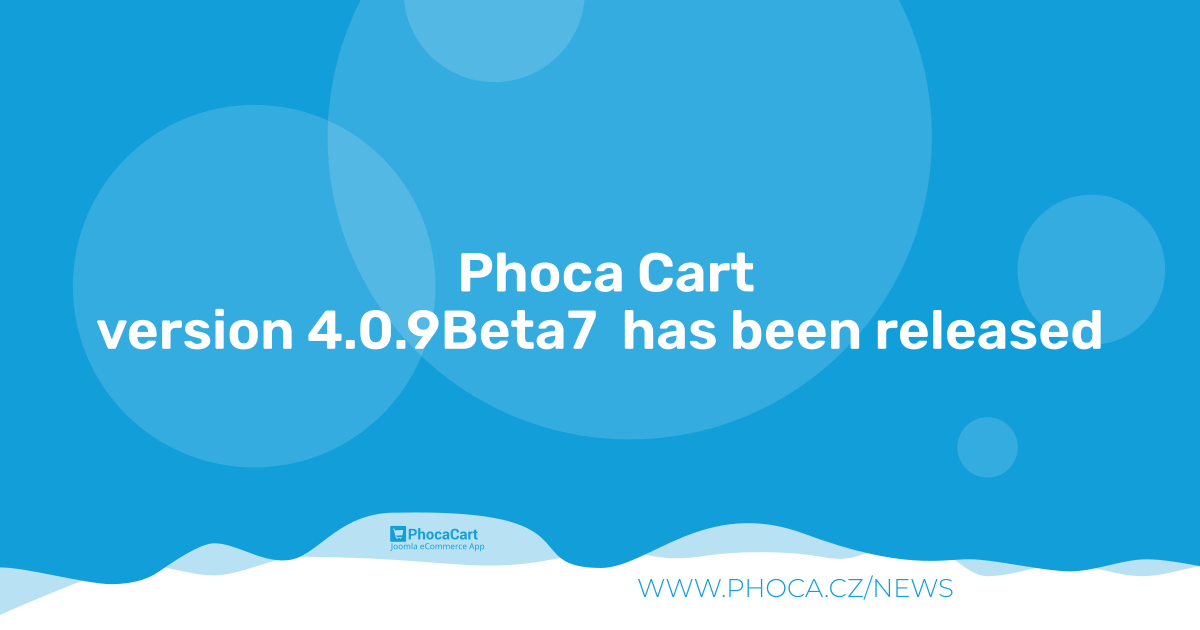
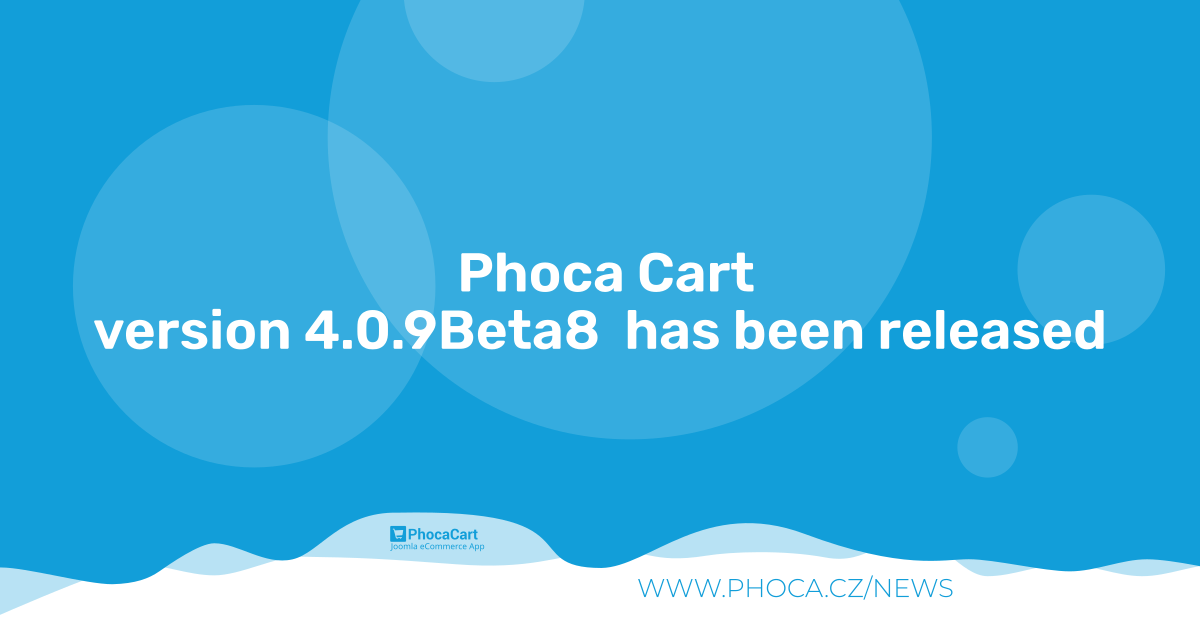
4.0.9Beta7

Changed region(s): [[0.0617, 0.4825, 0.925, 0.573]]

diff --git a/media/js/phoca/jquery.phocaattribute.min.js b/media/js/phoca/jquery.phocaattribute.min.js
@@ -1,1 +1,1 @@
-"use strict";function phChangeAttributeType(e){var t=(e=void 0!==e?".phj"+e:"")+".phjProductAttribute";jQuery(e+".phjCleanAttribute").remove(),jQuery(t).each(function(){var t,e,a="",i="",r="#phItemAttribute"+jQuery(this).data("attribute-id-name"),u="#phItemHiddenAttribute"+jQuery(this).data("attribute-id-name"),d="#phItemBoxAttribute"+jQuery(this).data("attribute-id-name"),s=jQuery(this).data("attribute-type"),h=jQuery(this).data("type-view"),n=jQuery(this).data("type-icon"),c=jQuery(this).data("required");3==s?a="phSelectBoxImage":2==s&&(a="phSelectBoxButton"),""!=a&&(i=u+" ."+a,t=jQuery(r).attr("name"),(e=jQuery('<input type="hidden" name="'+t+'">')).val(jQuery(r).val()),e.insertAfter(jQuery(r)),jQuery(u).css("display","block"),jQuery(d).css({display:"visible",position:"absolute",clip:"rect(0,0,0,0)"}),jQuery(d).addClass("phj"+h+" phjCleanAttribute"),jQuery(r+" option").each(function(){var e;""!=jQuery(this).val()&&(e="",3==s?e=jQuery('<div class="'+a+" "+n+'" data-value="'+jQuery(this).val()+'" data-value-alias="'+jQuery(this).data("value-alias")+'" title="'+jQuery(this).text()+'"><img src="'+jQuery(this).data("image")+'" alt="'+jQuery(this).text()+'" /></div>'):2==s&&(e=jQuery('<div class="'+a+" "+n+'" style="background-color:'+jQuery(this).data("color")+'" data-value="'+jQuery(this).val()+'" data-value-alias="'+jQuery(this).data("value-alias")+'" title="'+jQuery(this).text()+'">&nbsp;</div>')),jQuery(this).is(":selected")&&e.addClass("on"),jQuery(u).append(e))}),jQuery(i).on("click",function(e){if(e.preventDefault(),jQuery(this).hasClass("on")){if(1==c)return e.preventDefault(),!1;jQuery(this).removeClass("on"),jQuery('input[name="'+t+'"]').val(""),jQuery(r).val("").change()}else jQuery(i).removeClass("on"),jQuery(this).addClass("on"),jQuery('input[name="'+t+'"]').val(jQuery(this).data("value")),jQuery(r).val(jQuery(this).data("value")).change()}))})}function phAjaxChangeAttributeData(e,t,a,i){var r=Joomla.getOptions("phParamsPC"),u=Joomla.getOptions("phVarsPC").urlCheckoutChangeData,d=[];d.id=e,d.id_item_price="#phItemPriceBox"+t+e,d.id_item_price_gift="#phItemPriceGiftBox"+t+e,d.id_item_stock="#phItemStockBox"+t+e,d.id_item_id="#phItemIdBox"+t+e,d.id_item_name="V"+t+"P"+e,d.product_add_to_cart_item=".phProductAddToCart"+t+e,d.product_add_to_cart_item_icon=".phProductAddToCartIcon"+t+e,d.view=t,d.method_price=r.dynamicChangePrice,d.method_stock=r.dynamicChangeStock,d.method_id=r.dynamicChangeId,d.method_image=r.dynamicChangeImage,d.task="change",d.type="changedata",d.class="ItemQuick"==t||"Pos"==t||"Item"==t?"ph-item-data-box":"ph-category-data-box";i="id="+d.id+"&"+a+"&"+i+"&class="+d.class+"&typeview="+d.view;phDoRequestMethods(u,i,d)}function phSetAttributeUrl(u){var e=Joomla.getOptions("phParamsPC"),t=Joomla.getOptions("phVarsPC");if(1!=e.dynamicChangeUrlAttributes)return!1;if("item"!=t.view)return!1;var a=jQuery(location).attr("hash"),a=phReplaceAll("#","",a),d=phUrlDeParam(a),i=".phjProductAttribute",s="",h="",n="",t=jQuery(i).closest("form").find("input[name=return]"),a="";void 0!==t.val()&&""!=t.val()&&(a=Base64.decode(t.val())),jQuery(i).each(function(){""!=s&&(s+="&");var e=this.id,t=jQuery(this).data("alias"),a="",i="",r="#phItemHiddenAttribute"+jQuery(this).data("attribute-id-name");1==u?(void 0!==jQuery(this).find(":selected").data("value-alias")&&(a=jQuery(this).find(":selected").data("value-alias"),s=s+"a["+jQuery(this).data("alias")+"]="+a),void 0!==jQuery(this).find(":input:checked").data("value-alias")&&(jQuery.each(jQuery(this).find(":input:checked"),function(){""!=i&&(i+=","),i+=jQuery(this).data("value-alias")}),""!=i&&(s=s+"a["+jQuery(this).data("alias")+"]="+i))):(void 0!==d.a&&void 0!==t&&void 0!==d.a[t]?(s=s+"a["+jQuery(this).data("alias")+"]="+d.a[t],void 0===(t=d.a[t].split(","))&&0==t.length||(jQuery("#"+e+" option").removeAttr("selected"),jQuery(r+" div").removeClass("on"),jQuery("#"+e+" input").removeAttr("checked"),jQuery(t).each(function(){jQuery("#"+e+" option[data-value-alias='"+this+"']").attr("selected","selected"),jQuery(r+" div[data-value-alias='"+this+"']").addClass("on"),jQuery("#"+e+" input[data-value-alias='"+this+"']").attr("checked","checked")}))):(void 0!==jQuery(this).find(":selected").data("value-alias")&&(a=jQuery(this).find(":selected").data("value-alias"),s=s+"a["+jQuery(this).data("alias")+"]="+a),void 0!==jQuery(this).find(":input:checked").data("value-alias")&&(jQuery.each(jQuery(this).find(":input:checked"),function(){""!=i&&(i+=","),i+=jQuery(this).data("value-alias")}),""!=i&&(s=s+"a["+jQuery(this).data("alias")+"]="+i))),h=jQuery(this).data("type-view"),n=jQuery(this).data("product-id"))}),(0!=e.dynamicChangePrice||0!=e.dynamicChangeStock||0!=e.dynamicChangeId||0!=e.dynamicChangeImage&&1!=e.dynamicChangeImage)&&(i=".phjAddToCartV"+h+"P"+n,e=jQuery(i).find("select").serialize(),i=jQuery(i).find(":checkbox").serialize(),phAjaxChangeAttributeData(n,h,e,i)),s.lastIndexOf("&")==s.length-1&&(s=s.slice(0,-1)),(0==u&&""!=s||1==u)&&(s="#"+s,""!=a&&t.val(Base64.encode(a+s)),window.history.pushState({},"",s))}jQuery(document).ready(function(){phChangeAttributeType(),phSetAttributeUrl(0);jQuery(document).on("change","select.phjProductAttribute",function(e){var t=Joomla.getOptions("phParamsPC");if(0==t.dynamicChangePrice&&0==t.dynamicChangeStock&&0==t.dynamicChangeId&&(0==t.dynamicChangeImage||1==t.dynamicChangeImage))return!1;var a=jQuery(this).data("type-view"),i=jQuery(this).data("product-id"),t=".phjAddToCartV"+a+"P"+i;phAjaxChangeAttributeData(i,a,jQuery(t).find("select").serialize(),jQuery(t).find(":checkbox").serialize()),phSetAttributeUrl(1)});var e=".ph-checkbox-attribute.phjProductAttribute";jQuery(document).on("click",e,function(e){var t=Joomla.getOptions("phParamsPC");if("LABEL"!==e.target.tagName.toUpperCase()){if("svg"==t.theme||"svg"==t.iconType){if("SVG"===e.target.tagName.toUpperCase()||"IMG"===e.target.tagName.toUpperCase())return}else if(!("bs4"!=t.theme&&"bs5"!=t.theme||"SPAN"!==e.target.tagName.toUpperCase()&&"IMG"!==e.target.tagName.toUpperCase()))return;var a=jQuery(this).data("required"),t="#"+jQuery(this).attr("id")+" input:checked",t=jQuery(t).length;if(a&&0==t)return jQuery(e.target).parent().addClass("active"),e.preventDefault(),!1;e="#"+jQuery(this).attr("id")+" input[type='checkbox']",e=jQuery(e);0<e.length&&e.each(function(e){var t=jQuery(this).parent();jQuery(this).is(":checked")?t.addClass("active"):t.removeClass("active")})}}),jQuery(document).on("click",e,function(e){var t=Joomla.getOptions("phParamsPC");if((0!=t.dynamicChangePrice||0!=t.dynamicChangeStock||0!=t.dynamicChangeId||0!=t.dynamicChangeImage&&1!=t.dynamicChangeImage)&&"LABEL"!==e.target.tagName.toUpperCase()){if("svg"==t.theme||"svg"==t.iconType){if("SVG"===e.target.tagName.toUpperCase()||"IMG"===e.target.tagName.toUpperCase())return}else if(!("bs4"!=t.theme&&"bs5"!=t.theme||"SPAN"!==e.target.tagName.toUpperCase()&&"IMG"!==e.target.tagName.toUpperCase()))return;var a=jQuery(this).data("product-id"),t=jQuery(this).data("type-view"),e=".phjAddToCartV"+t+"P"+a;phAjaxChangeAttributeData(a,t,jQuery(e).find("select").serialize(),jQuery(e).find(":checkbox").serialize()),phSetAttributeUrl(1)}}),jQuery(".phAOGift").on("input",function(){var e,t="."+jQuery(this).data("type");".phAOGiftType"==t?(e=jQuery(this).data("title"),jQuery(".phAOGiftTitle").text(e),e=jQuery(this).data("image"),jQuery(".phAOGiftImage").attr("src",e),e=jQuery(this).data("date"),jQuery(".phAOGiftDate").text(e),""!=(e=jQuery(this).data("description"))&&(e=Base64.decode(e)),jQuery(".phAOGiftDescription").html(e),e=jQuery(this).data("class-name"),jQuery(t).attr("class","phAOGiftType ph-gift-voucher-box "+e)):jQuery(t).text(jQuery(this).val())})});
+"use strict";function phChangeAttributeType(e){var t=(e=void 0!==e?".phj"+e:"")+".phjProductAttribute";jQuery(e+".phjCleanAttribute").remove(),jQuery(t).each(function(){var t,e,a="",i="",r="#phItemAttribute"+jQuery(this).data("attribute-id-name"),u="#phItemHiddenAttribute"+jQuery(this).data("attribute-id-name"),d="#phItemBoxAttribute"+jQuery(this).data("attribute-id-name"),s=jQuery(this).data("attribute-type"),h=jQuery(this).data("type-view"),n=jQuery(this).data("type-icon"),c=jQuery(this).data("required");3==s?a="phSelectBoxImage":2==s&&(a="phSelectBoxButton"),""!=a&&(i=u+" ."+a,t=jQuery(r).attr("name"),(e=jQuery('<input type="hidden" name="'+t+'">')).val(jQuery(r).val()),e.insertAfter(jQuery(r)),jQuery(u).css("display","block"),jQuery(d).css({display:"visible",position:"absolute",clip:"rect(0,0,0,0)"}),jQuery(d).addClass("phj"+h+" phjCleanAttribute"),jQuery(r+" option").each(function(){var e;""!=jQuery(this).val()&&(e="",3==s?e=jQuery('<div class="'+a+" "+n+'" data-value="'+jQuery(this).val()+'" data-value-alias="'+jQuery(this).data("value-alias")+'" title="'+jQuery(this).text()+'"><img src="'+jQuery(this).data("image")+'" alt="'+jQuery(this).text()+'" /></div>'):2==s&&(e=jQuery('<div class="'+a+" "+n+" color-"+jQuery(this).data("color").replace("#","")+'" style="background-color:'+jQuery(this).data("color")+'" data-value="'+jQuery(this).val()+'" data-value-alias="'+jQuery(this).data("value-alias")+'" title="'+jQuery(this).text()+'">&nbsp;</div>')),jQuery(this).is(":selected")&&e.addClass("on"),jQuery(u).append(e))}),jQuery(i).on("click",function(e){if(e.preventDefault(),jQuery(this).hasClass("on")){if(1==c)return e.preventDefault(),!1;jQuery(this).removeClass("on"),jQuery('input[name="'+t+'"]').val(""),jQuery(r).val("").change()}else jQuery(i).removeClass("on"),jQuery(this).addClass("on"),jQuery('input[name="'+t+'"]').val(jQuery(this).data("value")),jQuery(r).val(jQuery(this).data("value")).change()}))})}function phAjaxChangeAttributeData(e,t,a,i){var r=Joomla.getOptions("phParamsPC"),u=Joomla.getOptions("phVarsPC").urlCheckoutChangeData,d=[];d.id=e,d.id_item_price="#phItemPriceBox"+t+e,d.id_item_price_gift="#phItemPriceGiftBox"+t+e,d.id_item_stock="#phItemStockBox"+t+e,d.id_item_id="#phItemIdBox"+t+e,d.id_item_name="V"+t+"P"+e,d.product_add_to_cart_item=".phProductAddToCart"+t+e,d.product_add_to_cart_item_icon=".phProductAddToCartIcon"+t+e,d.view=t,d.method_price=r.dynamicChangePrice,d.method_stock=r.dynamicChangeStock,d.method_id=r.dynamicChangeId,d.method_image=r.dynamicChangeImage,d.task="change",d.type="changedata",d.class="ItemQuick"==t||"Pos"==t||"Item"==t?"ph-item-data-box":"ph-category-data-box";i="id="+d.id+"&"+a+"&"+i+"&class="+d.class+"&typeview="+d.view;phDoRequestMethods(u,i,d)}function phSetAttributeUrl(u){var e=Joomla.getOptions("phParamsPC"),t=Joomla.getOptions("phVarsPC");if(1!=e.dynamicChangeUrlAttributes)return!1;if("item"!=t.view)return!1;var a=jQuery(location).attr("hash"),a=phReplaceAll("#","",a),d=phUrlDeParam(a),i=".phjProductAttribute",s="",h="",n="",t=jQuery(i).closest("form").find("input[name=return]"),a="";void 0!==t.val()&&""!=t.val()&&(a=Base64.decode(t.val())),jQuery(i).each(function(){""!=s&&(s+="&");var e=this.id,t=jQuery(this).data("alias"),a="",i="",r="#phItemHiddenAttribute"+jQuery(this).data("attribute-id-name");1==u?(void 0!==jQuery(this).find(":selected").data("value-alias")&&(a=jQuery(this).find(":selected").data("value-alias"),s=s+"a["+jQuery(this).data("alias")+"]="+a),void 0!==jQuery(this).find(":input:checked").data("value-alias")&&(jQuery.each(jQuery(this).find(":input:checked"),function(){""!=i&&(i+=","),i+=jQuery(this).data("value-alias")}),""!=i&&(s=s+"a["+jQuery(this).data("alias")+"]="+i))):(void 0!==d.a&&void 0!==t&&void 0!==d.a[t]?(s=s+"a["+jQuery(this).data("alias")+"]="+d.a[t],void 0===(t=d.a[t].split(","))&&0==t.length||(jQuery("#"+e+" option").removeAttr("selected"),jQuery(r+" div").removeClass("on"),jQuery("#"+e+" input").removeAttr("checked"),jQuery(t).each(function(){jQuery("#"+e+" option[data-value-alias='"+this+"']").attr("selected","selected"),jQuery(r+" div[data-value-alias='"+this+"']").addClass("on"),jQuery("#"+e+" input[data-value-alias='"+this+"']").attr("checked","checked")}))):(void 0!==jQuery(this).find(":selected").data("value-alias")&&(a=jQuery(this).find(":selected").data("value-alias"),s=s+"a["+jQuery(this).data("alias")+"]="+a),void 0!==jQuery(this).find(":input:checked").data("value-alias")&&(jQuery.each(jQuery(this).find(":input:checked"),function(){""!=i&&(i+=","),i+=jQuery(this).data("value-alias")}),""!=i&&(s=s+"a["+jQuery(this).data("alias")+"]="+i))),h=jQuery(this).data("type-view"),n=jQuery(this).data("product-id"))}),(0!=e.dynamicChangePrice||0!=e.dynamicChangeStock||0!=e.dynamicChangeId||0!=e.dynamicChangeImage&&1!=e.dynamicChangeImage)&&(i=".phjAddToCartV"+h+"P"+n,e=jQuery(i).find("select").serialize(),i=jQuery(i).find(":checkbox").serialize(),phAjaxChangeAttributeData(n,h,e,i)),s.lastIndexOf("&")==s.length-1&&(s=s.slice(0,-1)),(0==u&&""!=s||1==u)&&(s="#"+s,""!=a&&t.val(Base64.encode(a+s)),window.history.pushState({},"",s))}jQuery(document).ready(function(){phChangeAttributeType(),phSetAttributeUrl(0);jQuery(document).on("change","select.phjProductAttribute",function(e){var t=Joomla.getOptions("phParamsPC");if(0==t.dynamicChangePrice&&0==t.dynamicChangeStock&&0==t.dynamicChangeId&&(0==t.dynamicChangeImage||1==t.dynamicChangeImage))return!1;var a=jQuery(this).data("type-view"),i=jQuery(this).data("product-id"),t=".phjAddToCartV"+a+"P"+i;phAjaxChangeAttributeData(i,a,jQuery(t).find("select").serialize(),jQuery(t).find(":checkbox").serialize()),phSetAttributeUrl(1)});var e=".ph-checkbox-attribute.phjProductAttribute";jQuery(document).on("click",e,function(e){var t=Joomla.getOptions("phParamsPC");if("LABEL"!==e.target.tagName.toUpperCase()){if("svg"==t.theme||"svg"==t.iconType){if("SVG"===e.target.tagName.toUpperCase()||"IMG"===e.target.tagName.toUpperCase())return}else if(!("bs4"!=t.theme&&"bs5"!=t.theme||"SPAN"!==e.target.tagName.toUpperCase()&&"IMG"!==e.target.tagName.toUpperCase()))return;var a=jQuery(this).data("required"),t="#"+jQuery(this).attr("id")+" input:checked",t=jQuery(t).length;if(a&&0==t)return jQuery(e.target).parent().addClass("active"),e.preventDefault(),!1;e="#"+jQuery(this).attr("id")+" input[type='checkbox']",e=jQuery(e);0<e.length&&e.each(function(e){var t=jQuery(this).parent();jQuery(this).is(":checked")?t.addClass("active"):t.removeClass("active")})}}),jQuery(document).on("click",e,function(e){var t=Joomla.getOptions("phParamsPC");if((0!=t.dynamicChangePrice||0!=t.dynamicChangeStock||0!=t.dynamicChangeId||0!=t.dynamicChangeImage&&1!=t.dynamicChangeImage)&&"LABEL"!==e.target.tagName.toUpperCase()){if("svg"==t.theme||"svg"==t.iconType){if("SVG"===e.target.tagName.toUpperCase()||"IMG"===e.target.tagName.toUpperCase())return}else if(!("bs4"!=t.theme&&"bs5"!=t.theme||"SPAN"!==e.target.tagName.toUpperCase()&&"IMG"!==e.target.tagName.toUpperCase()))return;var a=jQuery(this).data("product-id"),t=jQuery(this).data("type-view"),e=".phjAddToCartV"+t+"P"+a;phAjaxChangeAttributeData(a,t,jQuery(e).find("select").serialize(),jQuery(e).find(":checkbox").serialize()),phSetAttributeUrl(1)}}),jQuery(".phAOGift").on("input",function(){var e,t="."+jQuery(this).data("type");".phAOGiftType"==t?(e=jQuery(this).data("title"),jQuery(".phAOGiftTitle").text(e),e=jQuery(this).data("image"),jQuery(".phAOGiftImage").attr("src",e),e=jQuery(this).data("date"),jQuery(".phAOGiftDate").text(e),""!=(e=jQuery(this).data("description"))&&(e=Base64.decode(e)),jQuery(".phAOGiftDescription").html(e),e=jQuery(this).data("class-name"),jQuery(t).attr("class","phAOGiftType ph-gift-voucher-box "+e)):jQuery(t).text(jQuery(this).val())})});

diff --git a/media/js/phoca/jquery.phocaattribute.js b/media/js/phoca/jquery.phocaattribute.js
@@ -69,11 +69,11 @@ function phChangeAttributeType(typeView) {
 						phSBtn = jQuery('<div class="'+ phClass	+' '+ phTypeIcon +'" data-value="'+ jQuery(this).val() +'" data-value-alias="'+ jQuery(this).data('value-alias') +'" title="'+ jQuery(this).text() +'"><img src="'+ jQuery(this).data('image') +'" alt="'+ jQuery(this).text() +'" /></div>');
 					} else if (phType == 2) {
 						// Color
-						phSBtn = jQuery('<div class="'+ phClass +' '+ phTypeIcon +'" style="background-color:' + jQuery(this).data('color') +'" data-value="'+ jQuery(this).val() +'" data-value-alias="'+ jQuery(this).data('value-alias') +'" title="'+ jQuery(this).text() +'">'+ '&nbsp;' +'</div>');
-						
+						phSBtn = jQuery('<div class="'+ phClass +' '+ phTypeIcon + ' color-' + jQuery(this).data('color').replace('#', '')  +'" style="background-color:' + jQuery(this).data('color') +'" data-value="'+ jQuery(this).val() +'" data-value-alias="'+ jQuery(this).data('value-alias') +'" title="'+ jQuery(this).text() +'">'+ '&nbsp;' +'</div>');
+
 					}
 
-					
+
 					if(jQuery(this).is(':selected')) {
 						phSBtn.addClass('on');
 					}
@@ -86,7 +86,7 @@ function phChangeAttributeType(typeView) {
 
 
 			// Change on Click event
-			
+
 			jQuery(phClassId).on('click', function(e) {
 
 				e.preventDefault();// Bootstrap modal (close and open again duplicates events)
@@ -94,7 +94,7 @@ function phChangeAttributeType(typeView) {
 				let isActive = jQuery(this).hasClass('on');
 
 				if (isActive) {
-					
+
 					if (phRequired == 1) {
 						e.preventDefault();// Active item cannot be unselected when the select box is required
 						return false;
@@ -187,7 +187,7 @@ function phSetAttributeUrl(phSetValueByUser) {
 		let valueAlias 		= '';// One value for selectbox
 		let valuesAlias 	= '';// One or more values for checkbox
 		let phSelectNameIdT	= '#phItemHiddenAttribute' + jQuery(this).data('attribute-id-name');
-		
+
 		if (phSetValueByUser == 1) {
 			// 1) Set by user
 
@@ -286,7 +286,7 @@ function phSetAttributeUrl(phSetValueByUser) {
 	// Update URL after #
 	if (phSetValueByUser == 0 && phHashNew != '') {
 		phHashNew = '#' + phHashNew;
-		
+
 		// Update even form return value to be returned back with selected attribute
 		if(attributeFormReturnValue != '') {
 			attributeFormReturn.val(Base64.encode(attributeFormReturnValue + phHashNew));
@@ -294,7 +294,7 @@ function phSetAttributeUrl(phSetValueByUser) {
 		window.history.pushState({},"", phHashNew);
 	} else if (phSetValueByUser == 1) {
 		phHashNew = '#' + phHashNew;
-		
+
 		// Update even form return value to be returned back with selected attribute
 		if(attributeFormReturnValue != '') {
 			attributeFormReturn.val(Base64.encode(attributeFormReturnValue + phHashNew));
@@ -340,11 +340,11 @@ jQuery(document).ready(function() {
 	jQuery(document).on('click', phCheckboxA, function(e){
 
 		const phParams = Joomla.getOptions('phParamsPC');
-		
+
 
 
 		if (e.target.tagName.toUpperCase() === "LABEL") { return;}// Prevent from twice running
-        
+
 		if (phParams['theme'] == 'svg' || phParams['iconType'] == 'svg') {
 			if (e.target.tagName.toUpperCase() === "SVG" || e.target.tagName.toUpperCase() === "IMG") {  return;}// Prevent from twice running
 		} else if (phParams['theme'] == 'bs4' || phParams['theme'] == 'bs5') {
@@ -355,14 +355,14 @@ jQuery(document).ready(function() {
 		 let phRequired = jQuery(this).data("required");
 		 let phCheckboxAInputChecked =  "#" + jQuery(this).attr("id") + " input:checked";
 		 let phACheckedLength = jQuery(phCheckboxAInputChecked).length;
-		 
+
 		 if (phRequired && phACheckedLength == 0) {
 			 let phThisLabel = jQuery(e.target).parent();//  checkboxes - colors, images
 			 phThisLabel.addClass("active");//  checkboxes - colors, images
 			 e.preventDefault();
 			 return false;
 		}
-		
+
 		let phCheckboxAInput =  "#" + jQuery(this).attr("id") + " input[type='checkbox']";
 		let allInputs = jQuery(phCheckboxAInput);
 
@@ -383,13 +383,13 @@ jQuery(document).ready(function() {
 	jQuery(document).on('click', phCheckboxA, function(e){
 
 		const phParams = Joomla.getOptions('phParamsPC');
-		
-		if (phParams['dynamicChangePrice'] == 0 && phParams['dynamicChangeStock'] == 0 && phParams['dynamicChangeId'] == 0 && (phParams['dynamicChangeImage'] == 0 || phParams['dynamicChangeImage'] == 1)) {	
+
+		if (phParams['dynamicChangePrice'] == 0 && phParams['dynamicChangeStock'] == 0 && phParams['dynamicChangeId'] == 0 && (phParams['dynamicChangeImage'] == 0 || phParams['dynamicChangeImage'] == 1)) {
 			return;// Interactive Change is disabled
 		}
 
 		if (e.target.tagName.toUpperCase() === "LABEL") { return;}// Prevent from twice running
-        
+
 		if (phParams['theme'] == 'svg' || phParams['iconType'] == 'svg') {
 			if (e.target.tagName.toUpperCase() === "SVG" || e.target.tagName.toUpperCase() === "IMG") {  return;}// Prevent from twice running
 		} else if (phParams['theme'] == 'bs4' || phParams['theme'] == 'bs5') {
@@ -413,14 +413,14 @@ jQuery(document).ready(function() {
 
 
 		if (phAOType == '.phAOGiftType') {
-			
+
 			let title = jQuery(this).data('title');
 			jQuery('.phAOGiftTitle').text(title);
 			let image = jQuery(this).data('image');
 			jQuery('.phAOGiftImage').attr('src', image);
 			let date = jQuery(this).data('date');
 			jQuery('.phAOGiftDate').text(date);
-			
+
 			let description = jQuery(this).data('description');
 			if (description != '') {
 				description = Base64.decode(description);

diff --git a/media/css/spec/yootheme.css b/media/css/spec/yootheme.css
@@ -21,18 +21,11 @@
     display: none;
 }
 
-
 /* Top modules */
 .ph-cart-module-box .uk-dropdown {
     min-width: 26em;
 }
 
-.ph-item-module-box ul li a,
-.ph-item-module-box ul li a:hover,
-.ph-item-module-box div a,
-.ph-item-module-box div a:hover {
-    color: #000;
-}
 .ph-item-module-box .row {
     margin: 0;
     padding: 0;
@@ -42,7 +35,6 @@
     margin: 0;
     padding: 0;
 }
-
 
 .ph-pagination-top .uk-select,
 .ph-pagination .uk-select {
@@ -97,10 +89,8 @@ span.visually-hidden {
     border: 1px solid #f0f0f0;
 }
 
-
-
-
 /* Additional Buttons*/
+/*
 .uk-modal .uk-button-success,
 .tm-page .uk-button-success {
     background: #acacac;
@@ -139,8 +129,7 @@ span.visually-hidden {
     color: #138496;
     border: 1px solid #138496;
 }
-
-
+*/
 
 span.ph-stars, span.ph-stars span {
     background: url(../../images/star-small-yellow.svg) 0 -16px repeat-x;
@@ -161,46 +150,33 @@ span.ph-stars span {
     padding-bottom: 0;
 }
 
-
-.ph-corner-icon-featured {
-    background-color: #E6B863;
-}
-.ph-corner-icon-bio {
-    background-color: #407060;
-}
-.ph-corner-icon-no-sugar {
-    background-color: #5c1d27;
-}
-
+/*
 .uk-logo>:where(img,svg,video) {
     display: block;
     margin-top: -6.5em;
     height: 2.5em;
 
 }
+*/
 
 .uk-navbar-left {
     border-right: 0 !important;
 }
 
-#tm-main {
-    /*padding-top: 0;*/
-}
-
+/*
 #phPriceFilterRange .ui-widget-header {
     background: #acacac;
 }
 
 #phPriceFilterRange.ui-slider-horizontal .ui-slider-handle {
-
     background: #acacac;
-
 }
-
+*/
+/*
 img {
     filter: grayscale(15%);
-  }
-
+}
+*/
 
 .ph-filter-box-horizontal .uk-dropdown-box .uk-form-group.row {
     margin-bottom: 0.5em !important;

diff --git a/admin/libraries/phocacart/form/user.php b/admin/libraries/phocacart/form/user.php
@@ -125,6 +125,12 @@ class PhocacartFormUser
 							$fB[] = $fS[] = ' checked="checked"';
 						}
 
+						// Calendar
+						if ($type == 'calendar') {
+							$fB[] = $fS[] = ' filter="user_utc" translateformat="true" showtime="true"';
+						}
+
+
 						// 0 not read only
 						// 1 read only
 						// 2 read only for registered users but not read only for guests

diff --git a/admin/libraries/phocacart/render/front.php b/admin/libraries/phocacart/render/front.php
@@ -139,6 +139,7 @@ class PhocacartRenderFront
 
         $title = $params->get('page_title', '');
 
+
         if (isset($name->title) && $name->title != '') {
             /*if ($title != '') {
                 $title = $title .' - ' .  $name->title;

diff --git a/README.MD b/README.MD
@@ -128,7 +128,7 @@ Phoca Cart is e-commerce extension - powerful shopping cart for Joomla! CMS. Pho
 
 ## Version (Joomla! 4.x)
 
-4.0.9Beta7
+4.0.9Beta8
 
 
 
